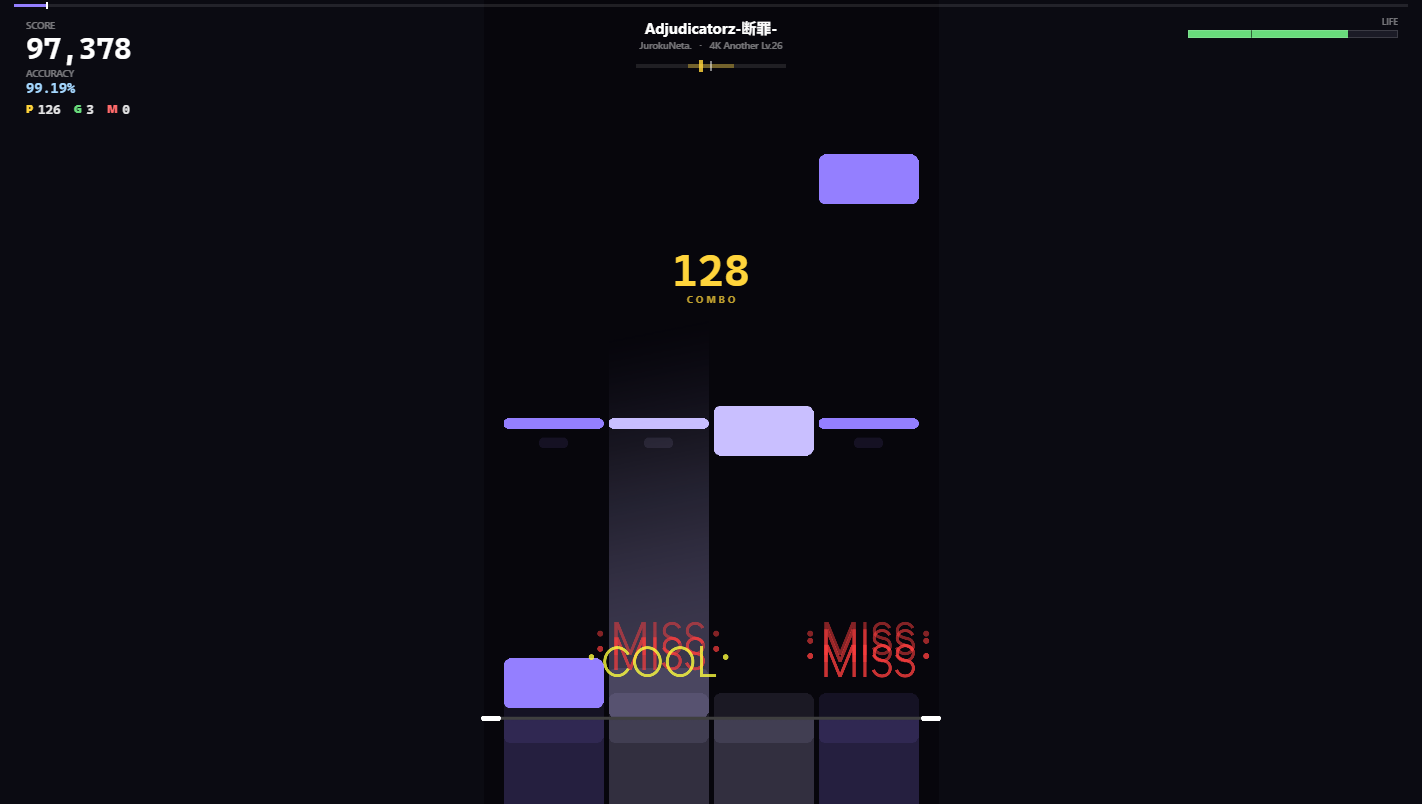
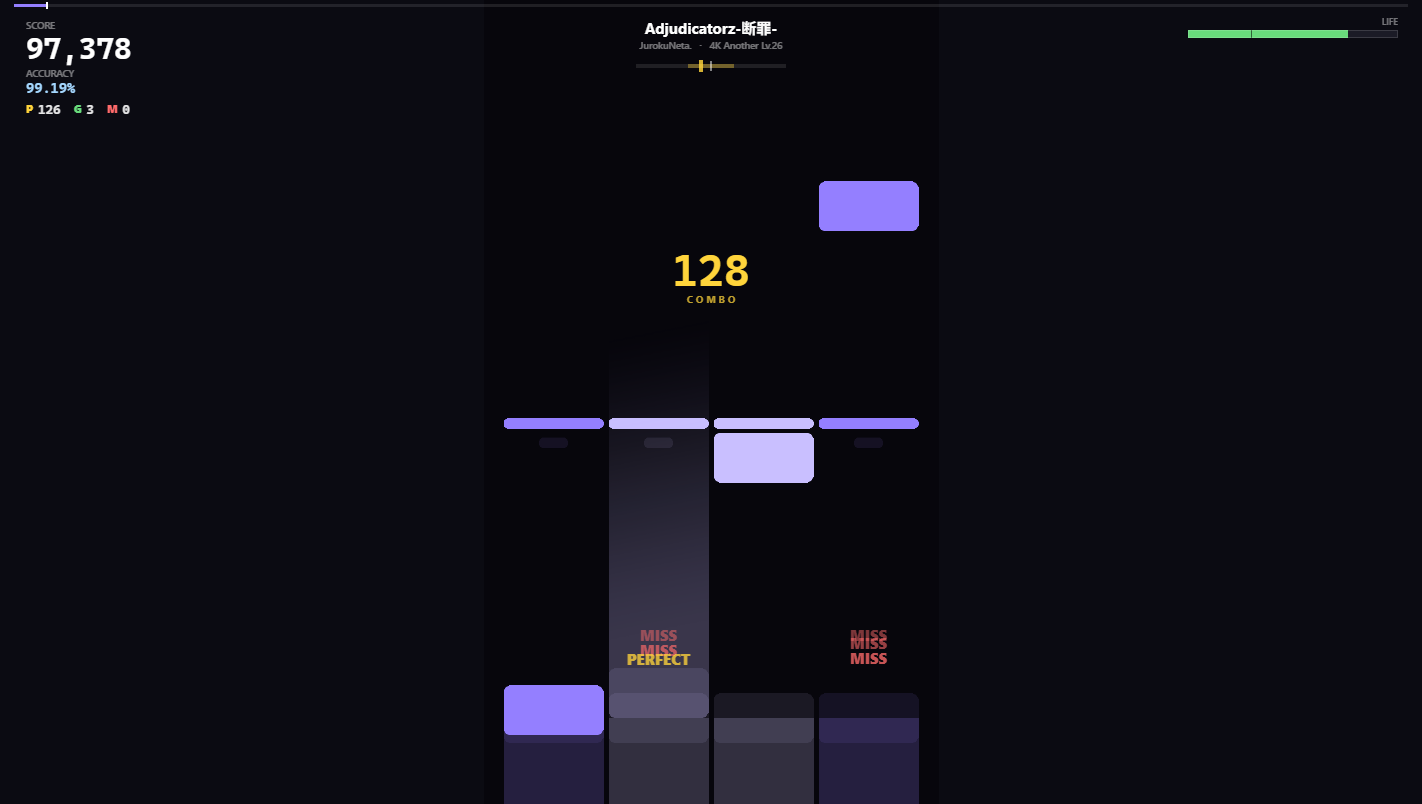
style: 皮肤模式改用内置判定文字，隐藏皮肤判定线
- 新增 SKIN_DRAW 取舍开关（useSkinJudgments=false / showBar=false）
- 判定文字：皮肤模式复用本项目的 PERFECT / GREAT / MISS 扁平文字，不再绘制 Yjud 贴图
- 判定线：不再绘制 Ybar4k，保留判定线处的接收器与底部填充，判定位置不变
- README 同步皮肤能力说明与开关用法；更新皮肤截图

diff --git a/js/renderer.js b/js/renderer.js
@@ -15,6 +15,14 @@ const FLAT_PALETTE = {
     track: 'rgba(255, 255, 255, 0.1)'
 };
 
+// 皮肤绘制取舍（Malody 皮肤只取赛道 / 音符 / 长条）：
+//   useSkinJudgments=false  判定文字用本项目样式（PERFECT / GREAT / MISS），不画皮肤 Yjud 贴图
+//   showBar=false           隐藏判定线（不画皮肤 Ybar4k）；接收器与判定位置仍保留
+const SKIN_DRAW = {
+    useSkinJudgments: false,
+    showBar: false
+};
+
 class Renderer {
     constructor(canvas, ctx) {
         this.canvas = canvas;
@@ -280,15 +288,17 @@ class Renderer {
             });
         }
 
-        // 6. 判定线：Ybar4k（bar 比 field 宽，居中绘制；窄屏下夹到画布内）
-        const barW = this._barW;
-        const barH = Math.max(2, layout.barHeight * s);
-        const barX = this.canvasWidth / 2 - barW / 2;
-        const barY = jy - barH / 2;
-        if (!skin.drawSprite(ctx, 'Ybar4k', barX, barY, barW, barH, { alpha: 1 })) {
-            // 兜底：贴图缺失时画一条纯色线
-            ctx.fillStyle = 'rgba(255, 255, 255, 0.85)';
-            ctx.fillRect(fieldX, Math.round(jy) - 1, fieldW, 2);
+        // 6. 判定线：默认隐藏（SKIN_DRAW.showBar=false），只保留接收器标出判定位置
+        if (SKIN_DRAW.showBar) {
+            const barW = this._barW;
+            const barH = Math.max(2, layout.barHeight * s);
+            const barX = this.canvasWidth / 2 - barW / 2;
+            const barY = jy - barH / 2;
+            if (!skin.drawSprite(ctx, 'Ybar4k', barX, barY, barW, barH, { alpha: 1 })) {
+                // 兜底：贴图缺失时画一条纯色线
+                ctx.fillStyle = 'rgba(255, 255, 255, 0.85)';
+                ctx.fillRect(fieldX, Math.round(jy) - 1, fieldW, 2);
+            }
         }
     }
 
@@ -933,8 +943,8 @@ class Renderer {
 
             const x = positions[j.track].cx;
 
-            // Malody 皮肤：COOL / GOOD / MISS 贴图
-            if (this.skin && this.spritesReady) {
+            // Malody 皮肤判定贴图（默认关闭：判定文字统一用本项目样式）
+            if (SKIN_DRAW.useSkinJudgments && this.skin && this.spritesReady) {
                 const names = { PERFECT: 'Yjud-1', GREAT: 'Yjud-2', MISS: 'Yjud-3' };
                 const spriteName = names[j.text] || 'Yjud-3';
                 const lw = this.skin.layout.judgeWidth * this._skinScale * j.bounce;

diff --git a/README.md b/README.md
@@ -14,7 +14,7 @@
 - **多难度系统**：EASY / EASY+ / NORMAL / NORMAL+ 四档难度
 - **扁平游玩 HUD**：曲名 / 艺术家 / 谱面难度、顶部播放进度条、实时分数与准确率、判定统计、生命值、连击放大、近期打击偏移条（EARLY / LATE）、低血量闪红边框
 - **音符样式**：FLAT（扁平块，默认）/ PIXEL（像素块），均为纯色块 + 1px 描边，可随时切换
-- **皮肤系统**：内置扁平皮肤 / **Malody V .mui 皮肤**（已接入 Yuxen 4K：轨道、音符、长条、判定线、COOL/GOOD/MISS 判定字），设置页一键切换
+- **皮肤系统**：内置扁平皮肤 / **Malody V .mui 皮肤**（已接入 Yuxen 4K：轨道、音符、长条、按键；判定文字与判定线沿用本项目处理），设置页一键切换
 - **视觉特效**：方块粒子、命中判定线加粗、判定文字动画、倒计时卡片
 - **实时性能监控**：按下 `` ` `` 键即可查看 FPS、帧时间、音频延迟
 - **数据驱动配置**：判定窗口、血量、音效参数均通过外部 JSON 配置，无需改代码
@@ -110,7 +110,7 @@ npx serve .
 | 皮肤 | 说明 |
 | :---- | :---- |
 | `BUILT-IN` | 内置扁平皮肤：纯色块音符 + 1px 描边（默认） |
-| `MALODY V` | Malody V 4.3.x 的 `.mui` 脚本皮肤：Yuxen 4K（作者 Lowwy），接管轨道、音符、长条、判定线与 COOL/GOOD/MISS 判定字 |
+| `MALODY V` | Malody V 4.3.x 的 `.mui` 脚本皮肤：Yuxen 4K（作者 Lowwy），接管轨道底板、键位列、按下列、音符与长条；**判定文字用本项目样式（PERFECT / GREAT / MISS）**，**判定线隐藏**（只保留判定线处的接收器） |
 
 启用 Malody 皮肤后 `NOTE STYLE` 会置灰——音符形状由皮肤脚本决定，不再使用内置 FLAT/PIXEL 样式。
 
@@ -142,6 +142,21 @@ assets/skins/yuxen/
 `script-key-4K.mui` 顶部的 `@define HITPOSITION 72.5` 决定判定线位置：数值越大判定线越靠上（作者建议 37~150，可用小数）。
 
 本作的换算方式是 `判定线距顶部比例 = 1 − (HITPOSITION + 25) / 900`，再被底部触控键 + 安全区夹住——所以手机上判定线永远不会落进按键区。
+
+判定位置仍按这套数值排布音符、接收器与判定文字，只是**不绘制皮肤里的判定线贴图**（`Ybar4k`），画面更干净。
+
+### 皮肤取舍开关
+
+`js/renderer.js` 顶部的 `SKIN_DRAW` 控制两个可选项：
+
+```js
+const SKIN_DRAW = {
+    useSkinJudgments: false,   // true = 用皮肤 Yjud 的 COOL/GOOD/MISS 贴图；false = 用本项目判定文字
+    showBar: false             // true = 绘制皮肤 Ybar4k 判定线；false = 隐藏判定线
+};
+```
+
+默认两项都关闭：判定文字统一用本项目的扁平文字，判定线隐藏，避免与内置 HUD 风格混搭。
 
 ### 限制
 
